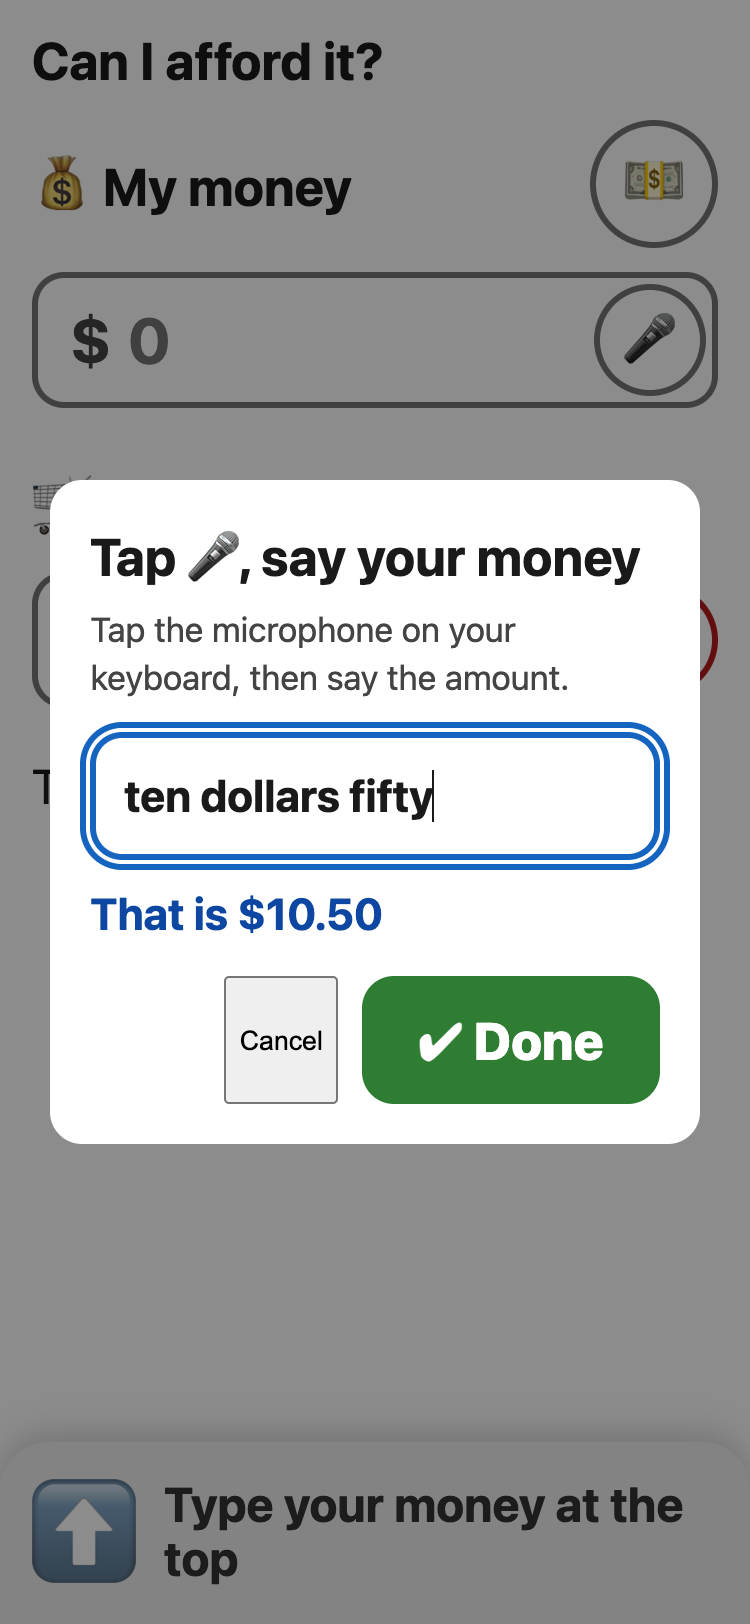
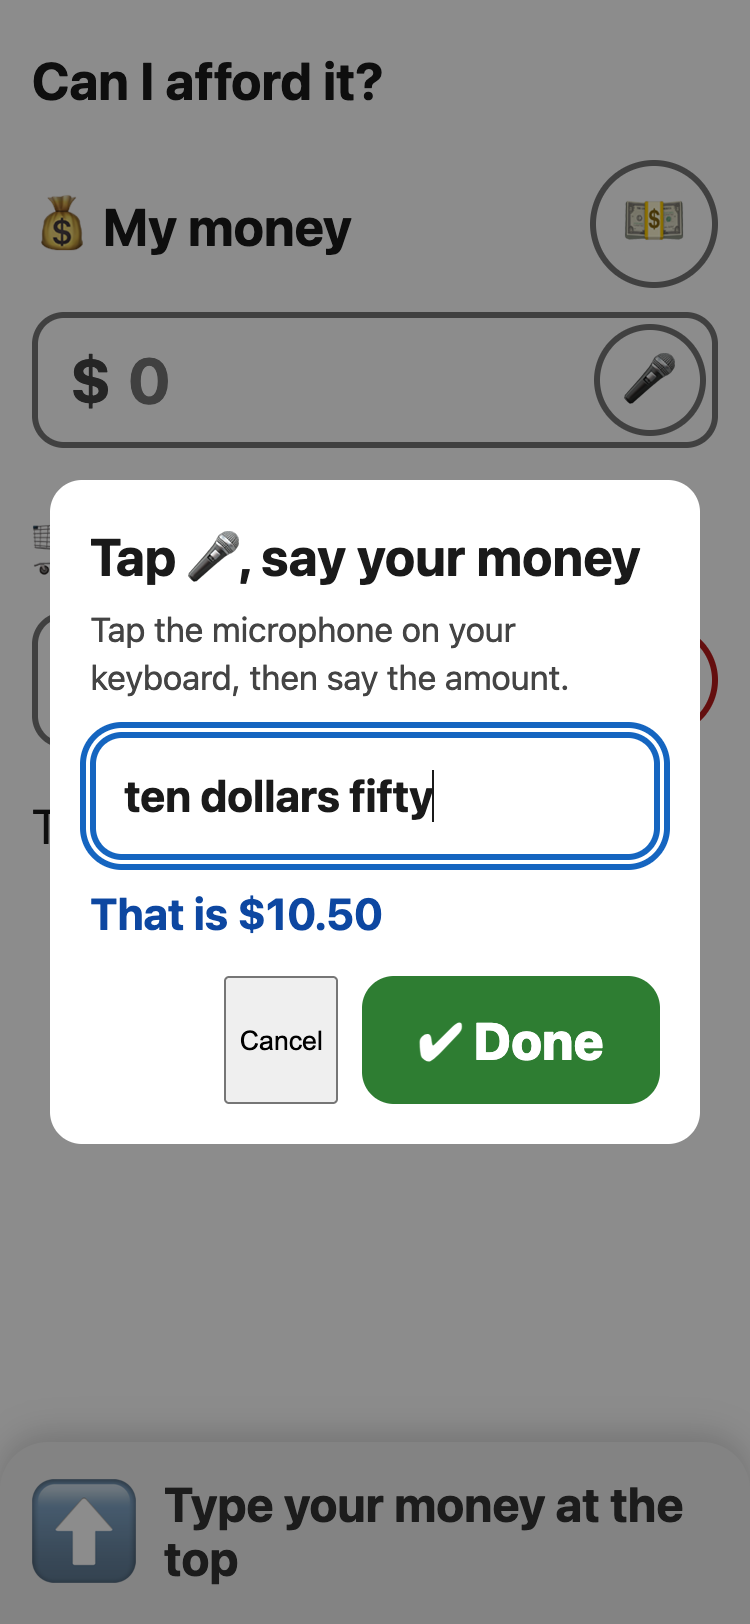
fix: reserve the header's tall height so the page never jumps
The "Start over" button appears the moment the first amount is entered,
which grew the header and pushed every zone down mid-interaction. The
header now always reserves that button's height, so the empty and filled
states line up exactly and the title gets more room to breathe.

Screenshots regenerated, cache bumped to v17.

diff --git a/public/sw.js b/public/sw.js
@@ -2,7 +2,7 @@
 // launch picks up new files; firebase.json serves this file with no-cache.
 // "/guide" (not "/guide.html"): Hosting cleanUrls 301s the .html form, and a
 // cached redirected response breaks offline navigations.
-const CACHE = "afford-v16";
+const CACHE = "afford-v17";
 const ASSETS = [
   "/",
   "/index.html",

diff --git a/public/css/styles.css b/public/css/styles.css
@@ -57,6 +57,9 @@ main {
   max-width: 520px;
   margin: 0 auto;
   padding: 12px var(--gap);
+  /* always tall enough for the "Start over" button, so the page doesn't
+     jump down the moment the first amount is entered */
+  min-height: calc(var(--target-small) + 24px);
 }
 h1 { font-size: 26px; margin: 0; }
 
